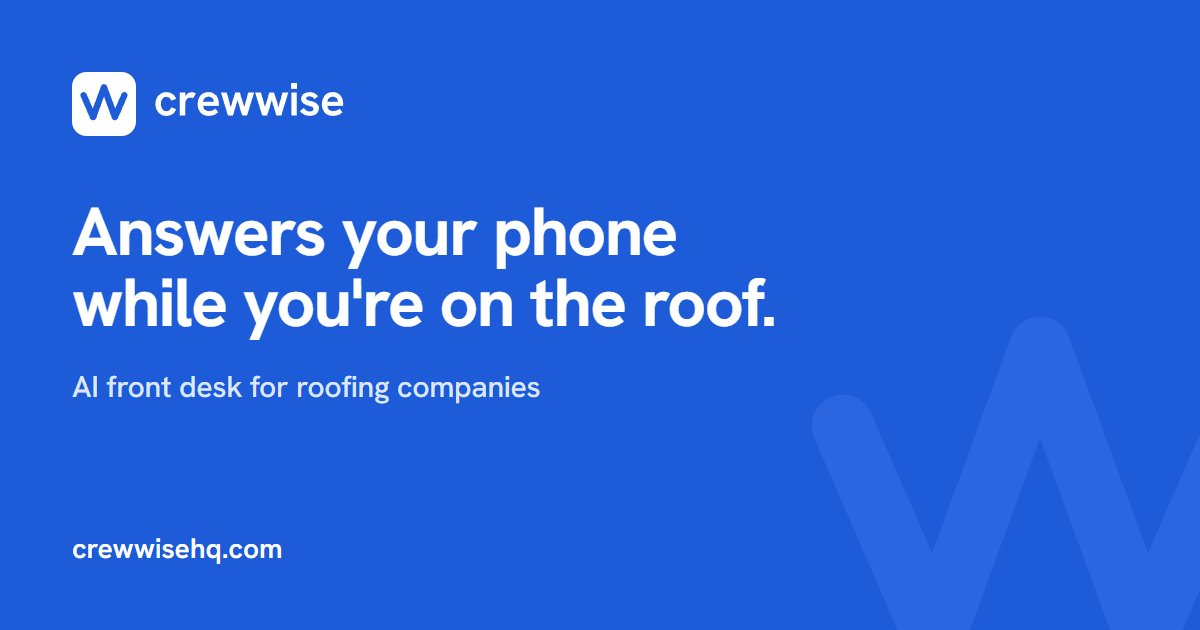
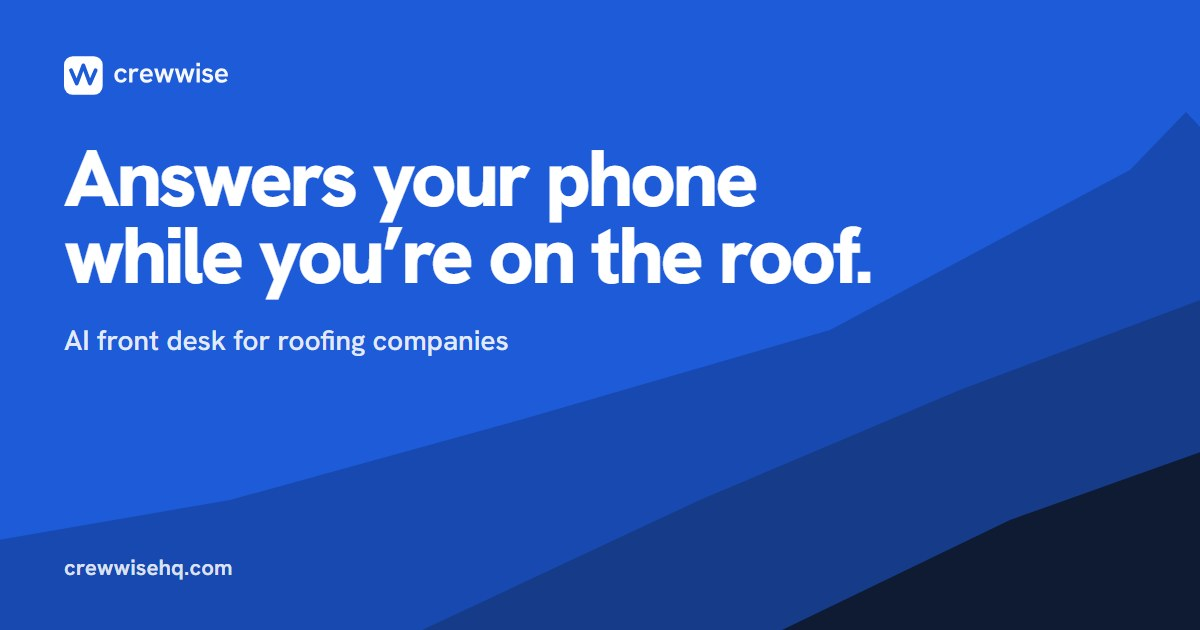
New cut-paper share previews and complete Open Graph tags
- og images for home, pricing, free audit and roofing, built by
  scripts/build-og.mjs (pnpm og) in the cut-paper style
- og:image width, height, type and alt on every page
- ?v=2 on image URLs so apps drop their cached old previews
- drop aria-required from the interest fieldset (not allowed there;
  the legend already says required)

Claude-Session: https://claude.ai/code/session_01NmmpTmmUDbnGfFdUkd2R17

diff --git a/src/content/pages/roofing.md b/src/content/pages/roofing.md
@@ -8,7 +8,7 @@
     "ogTitle": "Crewwise | AI front desk for roofing companies",
     "ogDescription": "Crewwise answers your roofing leads 24/7, qualifies the homeowner and books the inspection.",
     "ogImage": "/og-roofing.jpg",
-    "ogAlt": "Crewwise logo with the headline: Answers your phone while you’re on the roof.",
+    "ogAlt": "Crewwise logo on a blue field of overlapping paper planes with the headline: Answers your phone while you’re on the roof. AI front desk for roofing companies.",
     "ogHeadline": "Answers your phone while you’re on the roof.",
     "ogSub": "AI front desk for roofing companies"
   },
